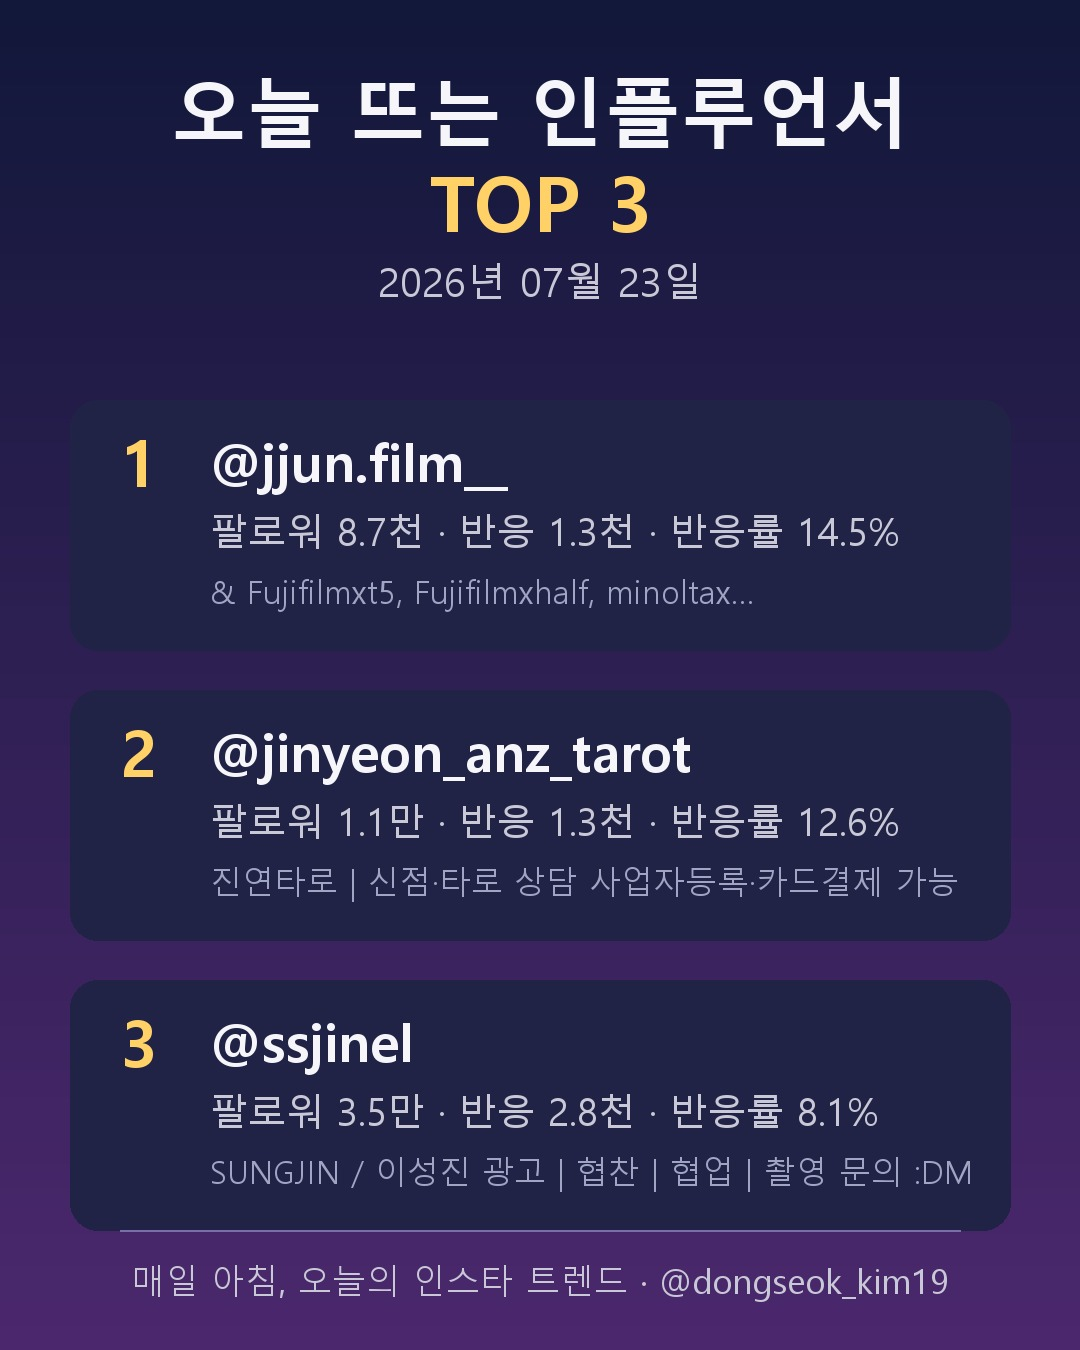
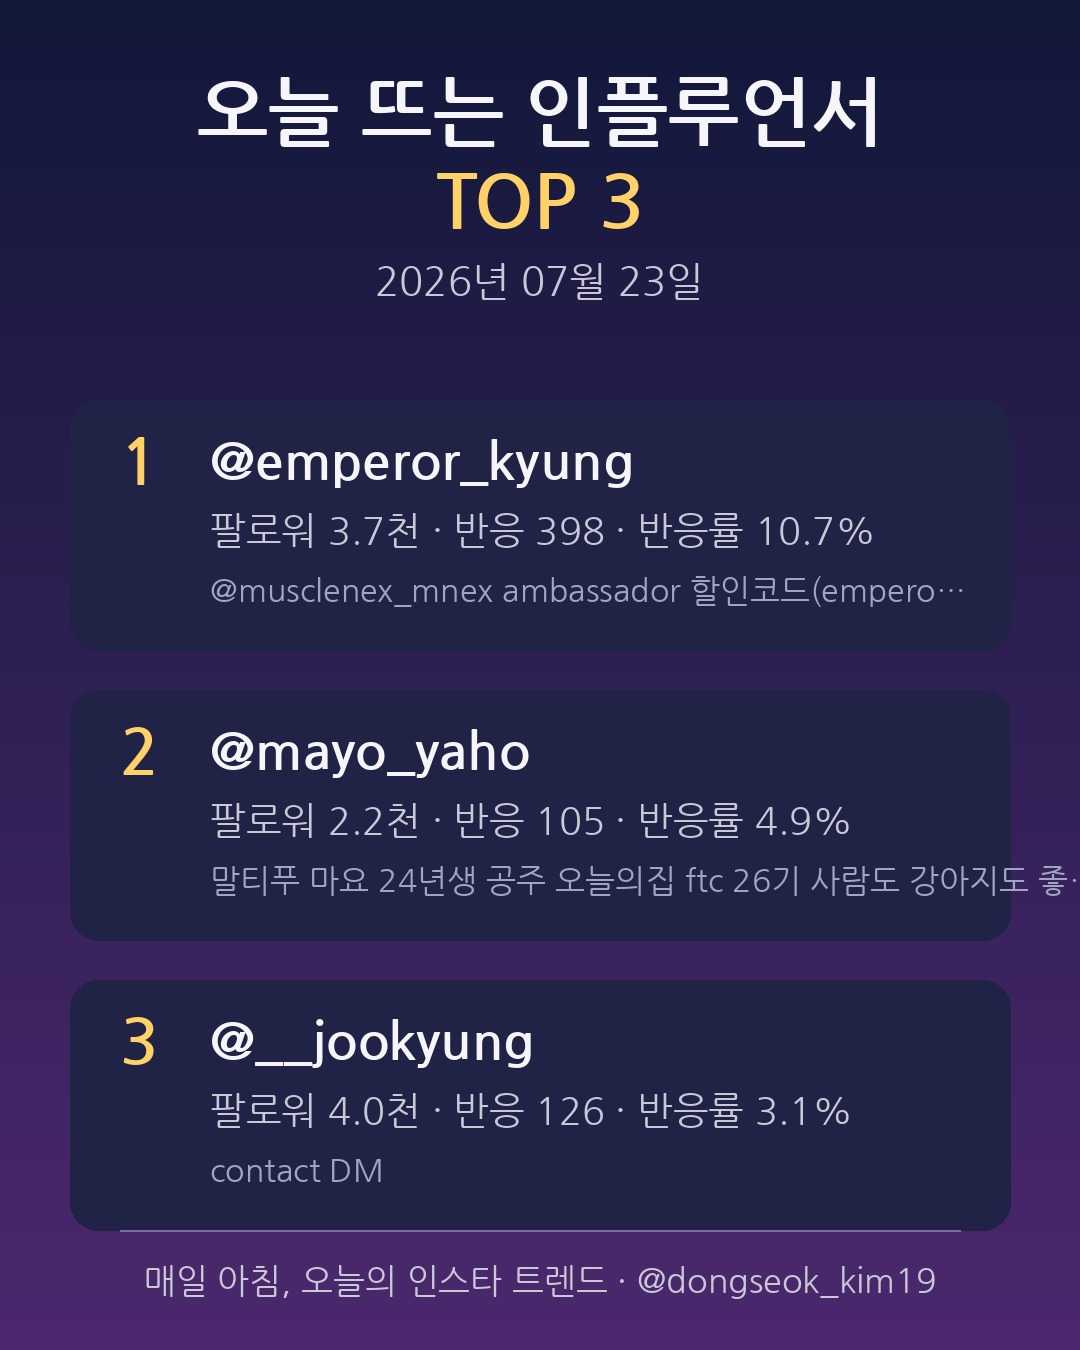
인스타 자동화 데이터 2026-07-23

diff --git a/insta/reports/2026-07-23.md b/insta/reports/2026-07-23.md
@@ -1,30 +1,27 @@
 # 인플루언서 분석 보고서 — 2026년 07월 23일
 
 ## 오늘의 TOP 3
-### 1위 @jjun.film__ ()
-- 팔로워: 8,706명 / 게시물: 1,077개
-- 게시물당 평균 반응: 1,263 (반응률 14.51%)
-- 소개글: 🎞 ғɪʟᴍ & ᴅɪɢɪᴛᴀʟ 📸 Fujifilmxt5, Fujifilmxhalf, minoltax700   우린 카페 아니면 여행이겠지🙄
-- 주소: https://www.instagram.com/jjun.film__/
+### 1위 @emperor_kyung (황재경)
+- 팔로워 3,717 / 게시물 121
+- 평균 반응 398 (반응률 10.71%)
+- 소개글: @musclenex_mnex ambassador   할인코드(emperor)
+- https://www.instagram.com/emperor_kyung/
 
-### 2위 @jinyeon_anz_tarot (연꽃 위에 비친 마음, 진연타로(안즈))
-- 팔로워: 10,556명 / 게시물: 9,413개
-- 게시물당 평균 반응: 1,327 (반응률 12.57%)
-- 소개글: 💙 진연타로 | 신점·타로 상담   🌐 사업자등록·카드결제 가능   😇 진심으로 함께하는 5년차의 영적인 길잡이    📬 DM·카톡채널 상담예약
-- 주소: https://www.instagram.com/jinyeon_anz_tarot/
+### 2위 @mayo_yaho (마요 🧸)
+- 팔로워 2,156 / 게시물 200
+- 평균 반응 105 (반응률 4.87%)
+- 소개글: 말티푸 마요 24년생 공주 오늘의집 ftc 26기 𖠿 사람도 강아지도 좋아해요🤎 📩 협찬·광고 문의 DM
+- https://www.instagram.com/mayo_yaho/
 
-### 3위 @ssjinel (이성진)
-- 팔로워: 34,560명 / 게시물: 281개
-- 게시물당 평균 반응: 2,811 (반응률 8.13%)
-- 소개글: SUNGJIN / 이성진 광고 | 협찬 | 협업 | 촬영 문의 :DM💌 🇰🇷
-- 주소: https://www.instagram.com/ssjinel/
+### 3위 @__jookyung (주경)
+- 팔로워 4,022 / 게시물 312
+- 평균 반응 126 (반응률 3.13%)
+- 소개글: contact DM 💌🕊
+- https://www.instagram.com/__jookyung/
 
 ## 함께 검토한 후보
-- @jinyeon_anz_tarot: 팔로워 10,556, 반응률 12.57%
-- @wonju_eddy: 팔로워 4,979, 반응률 5.09%
-- @__jookyung: 팔로워 4,022, 반응률 3.11%
-- @emperor_kyung: 팔로워 3,717, 반응률 10.57%
-- @durijin1005: 팔로워 3,847, 반응률 0.0%
-- @lmminseob: 팔로워 96,575, 반응률 0.76%
-- @jjun.film__: 팔로워 8,706, 반응률 14.51%
-- @ssjinel: 팔로워 34,560, 반응률 8.13%
+- @emperor_kyung: 팔로워 3,717, 반응률 10.71%
+- @mayo_yaho: 팔로워 2,156, 반응률 4.87%
+- @__jookyung: 팔로워 4,022, 반응률 3.13%
+- @lmminseob: 팔로워 96,581, 반응률 0.76%
+- @durijin1005: 팔로워 3,847, 반응률 1.68%
